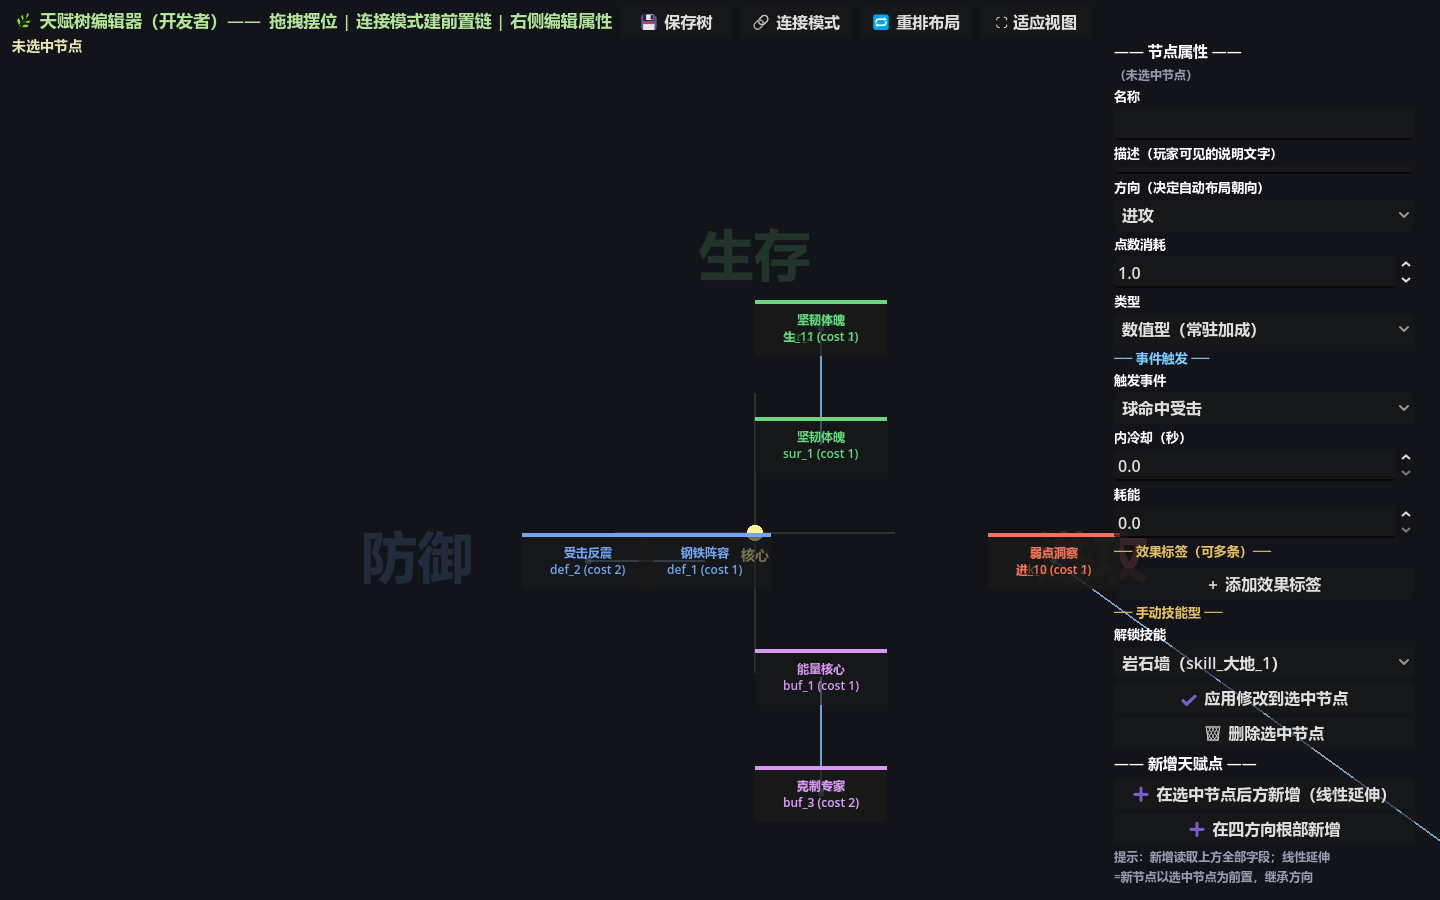
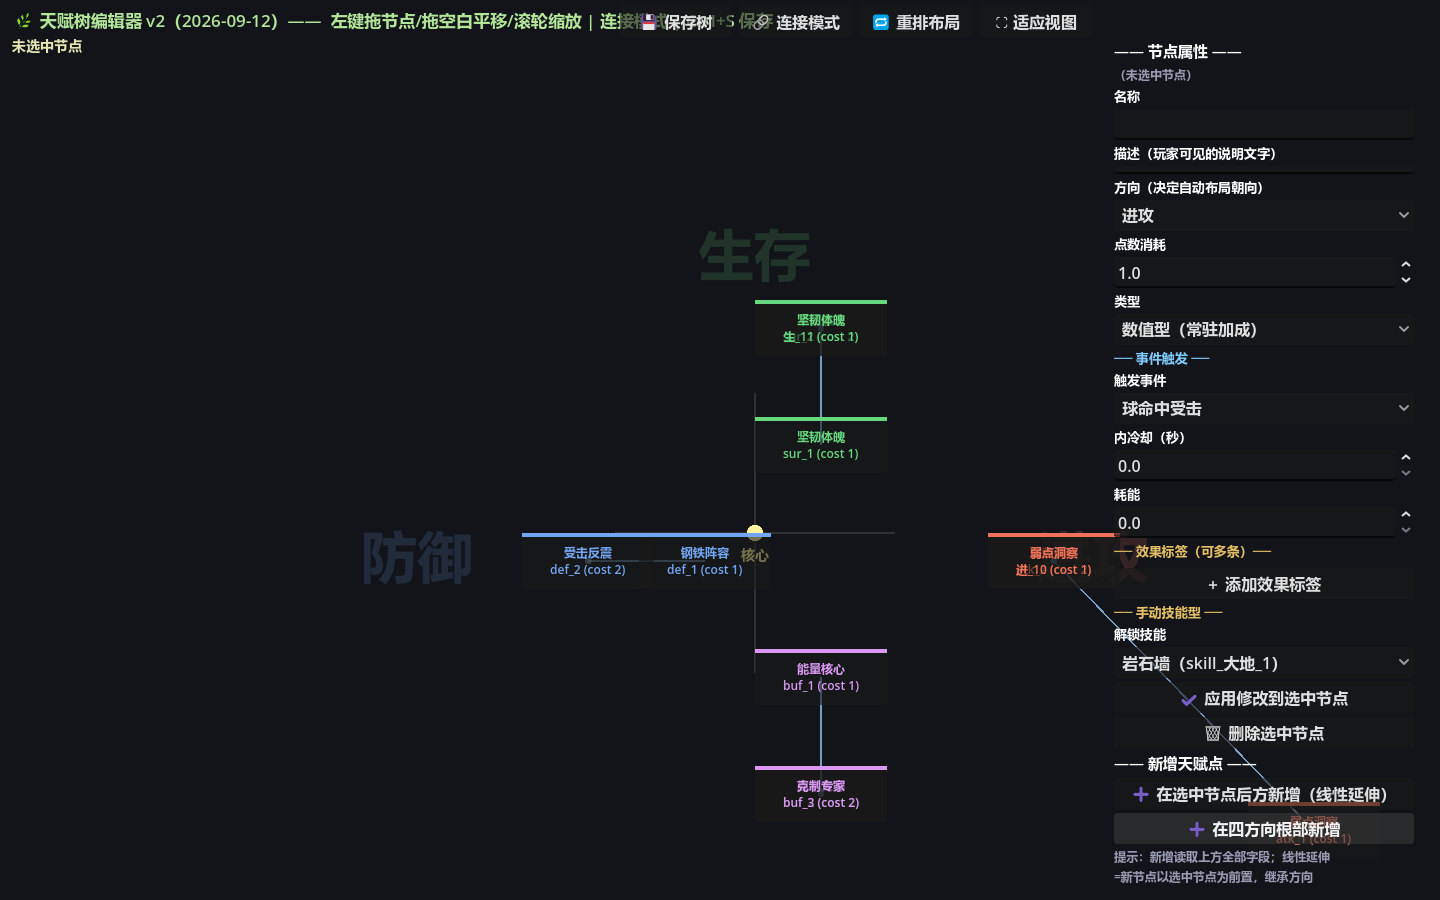
chore: 编辑器HUD加版本标记v2 + 防回跳断言（松手1.5s零位移PASS）
主人复测未修复——代码核查scale零残留+合成输入8项全PASS，判定为旧构建缓存；
标题版本标记供主人肉眼确认所跑版本

diff --git a/工作日志/2026-09-11.md b/工作日志/2026-09-11.md
@@ -411,3 +411,10 @@
 - **根治**：卡片**固定屏幕尺寸不缩放**（地图图钉模式）——position=视觉位置严格 1:1，命中/拖拽/对轴全部天然精确
 - 删残留 card.pressed 信号（选中已全走 _input 命中路径）；方向大字字号固定（可读性优先）
 - **零漂移断言**：缩放后全部卡片 position 与 world_to_screen(存储pos) 距离 < 0.5px（实测 0.00px）——七项交互测试全 PASS
+
+### 43. 主人复测"未修复"排查
+
+- 代码核查：编辑器内 scale 已零残留（grep 证实）
+- 合成输入加"松手后 1.5s 防回跳"断言：位移 0.00px PASS——当前代码拖拽/缩放/对轴全部数学正确
+- **强怀疑：主人跑的是旧构建**（Godot 编辑器运行实例不会自动热重载脚本改动）
+- **对策**：编辑器标题加版本标记"v2（2026-09-12）+新操作说明"——主人打开后看标题即知是否新代码；若仍是旧标题=需停止运行重开（或编辑器里 项目→重新加载当前项目）
